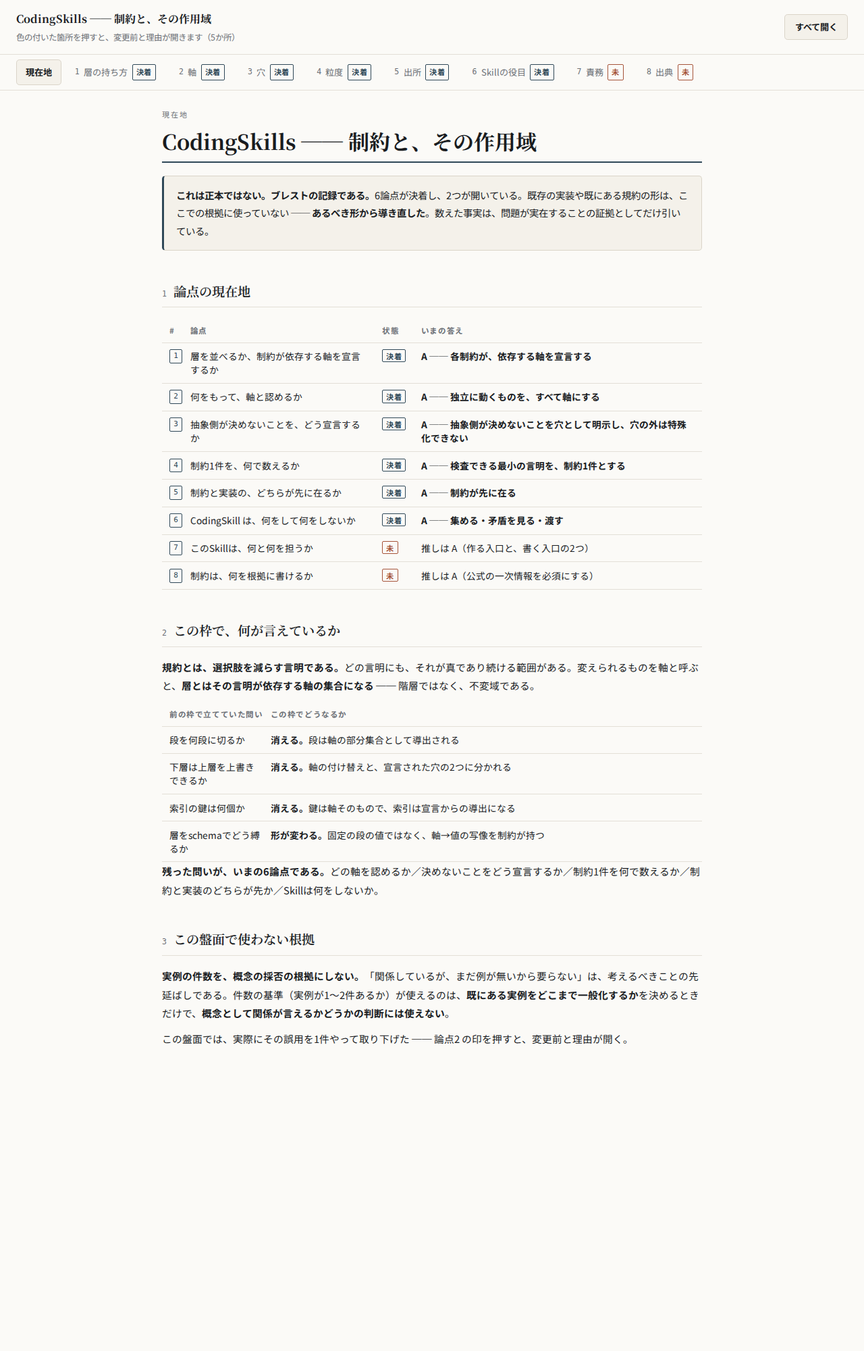
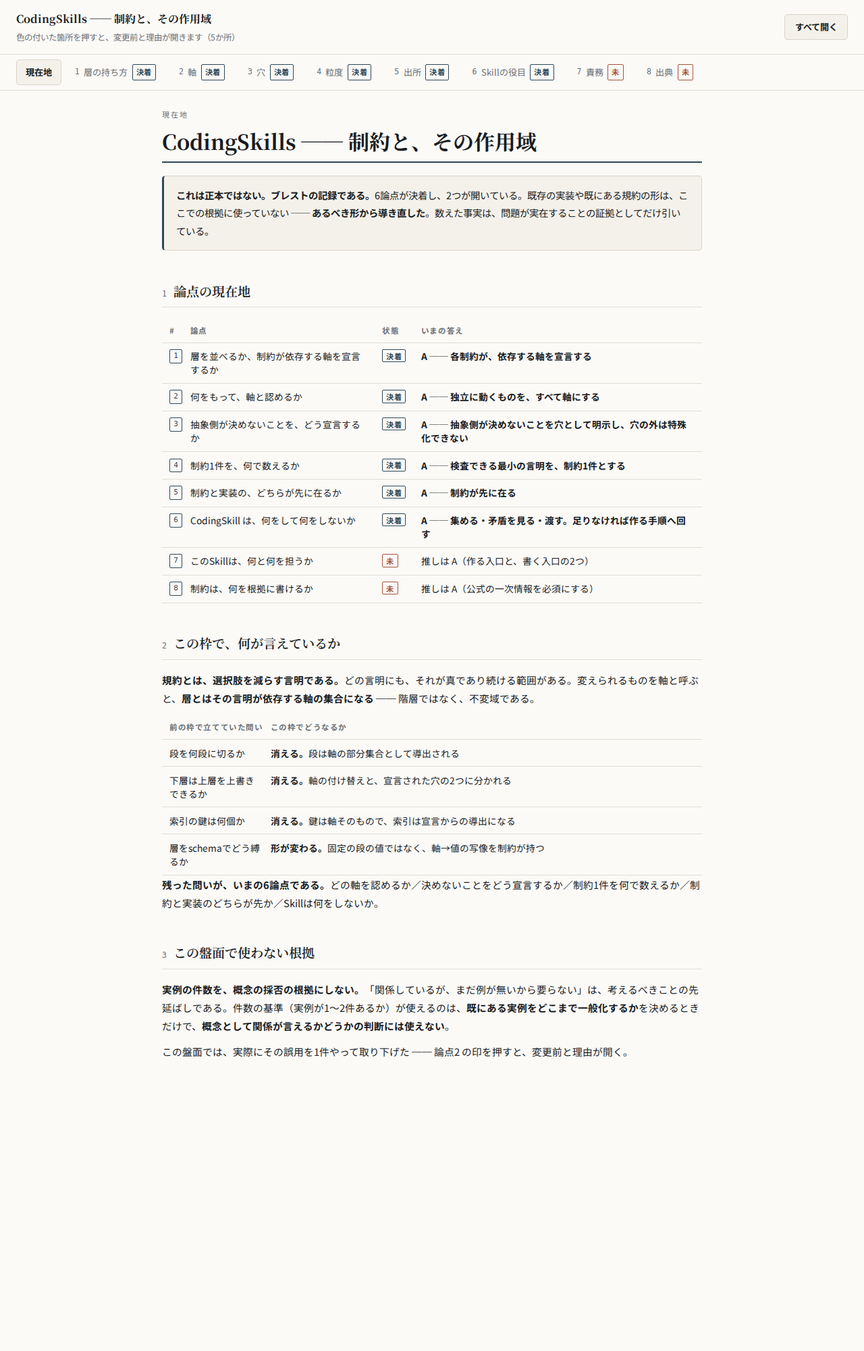
足りないと分かった時点で、規約を作る手順へ回す
書く手順が止まって終わる形をやめ、制約が足りないと分かったら作る手順へ回し、
承認を経てから集め直す形にした。図に2本の矢印を足している ── 集める段から
原典を落とす段へ回す矢印と、正本から集める段へ戻る矢印。

変えていないのは承認である。その場で勝手に作らず、正本に入るのは人の承認を
経た制約だけという点は、そのまま残る。

Why: 足りないことを言って止まるだけでは、次に同じ場面が来ても足りないまま
である。回した結果が正本に残れば、次は集める段で足りる。

Claude-Session: https://claude.ai/code/session_01VoPqHBXHr7Npdh9tNXyFNU

Changed region(s): [[0.1875, 0.372, 0.8125, 0.806], [0.7188, 0.465, 0.8125, 0.527]]

diff --git a/docs/adr/brainstorm-coding-skills.html b/docs/adr/brainstorm-coding-skills.html
@@ -122,7 +122,7 @@ mark.chg.del b{text-decoration:line-through}
 .st.done{color:var(--key);border-color:var(--key)}
 .st.open{color:var(--add);border-color:var(--add)}
 section[role="tabpanel"][hidden]{display:none}
-</style><div class="hd"><div class="t">CodingSkills ── 制約と、その作用域<small>色の付いた箇所を押すと、変更前と理由が開きます（<span id="n">0</span>か所）</small></div><button id="all" type="button">すべて開く</button></div><div class="tabs" role="tablist"><button role="tab" aria-selected="true" data-t="p0">現在地</button><button role="tab" aria-selected="false" data-t="p1"><span class="tn">1</span>層の持ち方<span class="st done">決着</span></button><button role="tab" aria-selected="false" data-t="p2"><span class="tn">2</span>軸<span class="st done">決着</span></button><button role="tab" aria-selected="false" data-t="p3"><span class="tn">3</span>穴<span class="st done">決着</span></button><button role="tab" aria-selected="false" data-t="p4"><span class="tn">4</span>粒度<span class="st done">決着</span></button><button role="tab" aria-selected="false" data-t="p5"><span class="tn">5</span>出所<span class="st done">決着</span></button><button role="tab" aria-selected="false" data-t="p6"><span class="tn">6</span>Skillの役目<span class="st done">決着</span></button><button role="tab" aria-selected="false" data-t="p7"><span class="tn">7</span>責務<span class="st open">未</span></button><button role="tab" aria-selected="false" data-t="p8"><span class="tn">8</span>出典<span class="st open">未</span></button></div><main><section id="p0" role="tabpanel"><p class="eyebrow">現在地</p><h1>CodingSkills ── 制約と、その作用域</h1><div class="note"><b>これは正本ではない。ブレストの記録である。</b>6論点が決着し、2つが開いている。既存の実装や既にある規約の形は、ここでの根拠に使っていない ── <b>あるべき形から導き直した</b>。数えた事実は、問題が実在することの証拠としてだけ引いている。</div><h2><span class="sn">1</span>論点の現在地</h2><div class="scroll"><table class=""><tr><th>#</th><th>論点</th><th>状態</th><th>いまの答え</th></tr><tr><td><span class="n">1</span></td><td>層を並べるか、制約が依存する軸を宣言するか</td><td><span class="st done">決着</span></td><td><b>A ── 各制約が、依存する軸を宣言する</b></td></tr><tr><td><span class="n">2</span></td><td>何をもって、軸と認めるか</td><td><span class="st done">決着</span></td><td><b>A ── 独立に動くものを、すべて軸にする</b></td></tr><tr><td><span class="n">3</span></td><td>抽象側が決めないことを、どう宣言するか</td><td><span class="st done">決着</span></td><td><b>A ── 抽象側が決めないことを穴として明示し、穴の外は特殊化できない</b></td></tr><tr><td><span class="n">4</span></td><td>制約1件を、何で数えるか</td><td><span class="st done">決着</span></td><td><b>A ── 検査できる最小の言明を、制約1件とする</b></td></tr><tr><td><span class="n">5</span></td><td>制約と実装の、どちらが先に在るか</td><td><span class="st done">決着</span></td><td><b>A ── 制約が先に在る</b></td></tr><tr><td><span class="n">6</span></td><td>CodingSkill は、何をして何をしないか</td><td><span class="st done">決着</span></td><td><b>A ── 集める・矛盾を見る・渡す</b></td></tr><tr><td><span class="n">7</span></td><td>このSkillは、何と何を担うか</td><td><span class="st open">未</span></td><td>推しは A（作る入口と、書く入口の2つ）</td></tr><tr><td><span class="n">8</span></td><td>制約は、何を根拠に書けるか</td><td><span class="st open">未</span></td><td>推しは A（公式の一次情報を必須にする）</td></tr></table></div><h2><span class="sn">2</span>この枠で、何が言えているか</h2><p class='lead'><b>規約とは、選択肢を減らす言明である。</b>どの言明にも、それが真であり続ける範囲がある。変えられるものを軸と呼ぶと、<b>層とはその言明が依存する軸の集合になる</b> ── 階層ではなく、不変域である。</p><div class="scroll"><table class=""><tr><th>前の枠で立てていた問い</th><th>この枠でどうなるか</th></tr><tr><td>段を何段に切るか</td><td><b>消える。</b>段は軸の部分集合として導出される</td></tr><tr><td>下層は上層を上書きできるか</td><td><b>消える。</b>軸の付け替えと、宣言された穴の2つに分かれる</td></tr><tr><td>索引の鍵は何個か</td><td><b>消える。</b>鍵は軸そのもので、索引は宣言からの導出になる</td></tr><tr><td>層をschemaでどう縛るか</td><td><b>形が変わる。</b>固定の段の値ではなく、軸→値の写像を制約が持つ</td></tr></table></div><p class='lead'><b>残った問いが、いまの6論点である。</b>どの軸を認めるか／決めないことをどう宣言するか／制約1件を何で数えるか／制約と実装のどちらが先か／Skillは何をしないか。</p><h2><span class="sn">3</span>この盤面で使わない根拠</h2><p class='lead'><b>実例の件数を、概念の採否の根拠にしない。</b>「関係しているが、まだ例が無いから要らない」は、考えるべきことの先延ばしである。件数の基準（実例が1〜2件あるか）が使えるのは、<b>既にある実例をどこまで一般化するか</b>を決めるときだけで、<b>概念として関係が言えるかどうかの判断には使えない</b>。</p><p class='lead'>この盤面では、実際にその誤用を1件やって取り下げた ── 論点2 の印を押すと、変更前と理由が開く。</p></section><section id="p1" role="tabpanel" hidden><p class="eyebrow">論点 1</p><h1>層を並べるか、制約が依存する軸を宣言するか</h1><div class="note"><b>制約とは、選択肢を減らす言明である。そしてどの制約にも、それが真であり続ける範囲がある。</b>変えられるものを軸と呼ぶと、<b>層とは、その制約が依存する軸の集合になる</b>。</div><h2><span class="sn">1</span>反証を通過した案</h2><div class="scroll"><table class="opts"><tr><th></th><th>案</th><th>中身</th><th>代償</th></tr><tr><td><span class="n ">A</span></td><td><b>各制約が、依存する軸を宣言する</b></td><td>層は宣言から導出される。フォルダは、その導出をどう並べて見せるかにすぎない</td><td><span class="cost">制約1件ごとに宣言を書く手間が増える。<b>層が一覧として見えないので、見せ方を別に作る</b></span></td></tr><tr><td><span class="n ">B</span></td><td><b>層をあらかじめ並べ、制約をそこへ置く</b></td><td>言語／アーキ／束ね／目的の段を先に決め、規約をその段へ配る</td><td><span class="cost"><b>軸が増えたとき、段の切り直しになる</b>。実行環境や規模を軸に足したくなった時点で、全部を並べ替える</span></td></tr><tr><td><span class="n ">C</span></td><td><b>層を持たず、場面ごとに規約一式を作る</b></td><td>目的と言語の組ごとに、必要な制約を全部書く</td><td><span class="cost">同じ言明が組の数だけ写る。<b>直す場所が1か所に決まらない</b></span></td></tr></table></div><h2><span class="sn">2</span>反証で分かったこと</h2><ul class='found'><li><b>「4段」は、軸を2本に絞ったときの部分集合にすぎなかった。</b>段数は決めるものではなく、軸から導出される</li><li><b>フォルダ構成は、この論点の答えではない。</b>導出をどう見せるかであって、何が真かとは別のこと</li></ul><h2><span class="sn">3</span>私の推し</h2><div class="concl"><span class="n big">A</span><div><p>各制約が、依存する軸を宣言する。層はそこから導出する</p></div></div><h3>なぜそう言えるか</h3><div class="scroll"><table class="why"><tr><th>結論のどこを支えるか</th><th>もとにしたこと</th><th>その出どころ</th></tr><tr><td><span class="part">層を導出にすること</span></td><td>層とは、制約が依存する軸の集合である</td><td><span class="kind k-given">前提</span><small>この盤面の出発点（規約＝制約の宣言、作用域＝依存する軸）</small></td></tr><tr><td><span class="part">並べないこと</span></td><td>層を先に並べると、宣言の誤りが「どの段に置くか」の悩みとして出る</td><td><span class="kind k-rule">決まり</span><small>前の枠で実際に4段を並べ、段の切り方が論点になった</small></td></tr><tr><td><span class="part">フォルダを答えにしないこと</span></td><td>同じ制約が2か所に現れるのは、軸の宣言が足りないとき</td><td><span class="kind k-given">前提</span><small>既存の規約13本で、同じ言明が対象ごとに写っている（`.waffle/documents/coding`）</small></td></tr></table></div><h3>図で見る</h3><figure><svg viewBox="0 0 780 320" role="img" aria-label="各制約が依存する軸を宣言すると、層はその宣言から導出される">
+</style><div class="hd"><div class="t">CodingSkills ── 制約と、その作用域<small>色の付いた箇所を押すと、変更前と理由が開きます（<span id="n">0</span>か所）</small></div><button id="all" type="button">すべて開く</button></div><div class="tabs" role="tablist"><button role="tab" aria-selected="true" data-t="p0">現在地</button><button role="tab" aria-selected="false" data-t="p1"><span class="tn">1</span>層の持ち方<span class="st done">決着</span></button><button role="tab" aria-selected="false" data-t="p2"><span class="tn">2</span>軸<span class="st done">決着</span></button><button role="tab" aria-selected="false" data-t="p3"><span class="tn">3</span>穴<span class="st done">決着</span></button><button role="tab" aria-selected="false" data-t="p4"><span class="tn">4</span>粒度<span class="st done">決着</span></button><button role="tab" aria-selected="false" data-t="p5"><span class="tn">5</span>出所<span class="st done">決着</span></button><button role="tab" aria-selected="false" data-t="p6"><span class="tn">6</span>Skillの役目<span class="st done">決着</span></button><button role="tab" aria-selected="false" data-t="p7"><span class="tn">7</span>責務<span class="st open">未</span></button><button role="tab" aria-selected="false" data-t="p8"><span class="tn">8</span>出典<span class="st open">未</span></button></div><main><section id="p0" role="tabpanel"><p class="eyebrow">現在地</p><h1>CodingSkills ── 制約と、その作用域</h1><div class="note"><b>これは正本ではない。ブレストの記録である。</b>6論点が決着し、2つが開いている。既存の実装や既にある規約の形は、ここでの根拠に使っていない ── <b>あるべき形から導き直した</b>。数えた事実は、問題が実在することの証拠としてだけ引いている。</div><h2><span class="sn">1</span>論点の現在地</h2><div class="scroll"><table class=""><tr><th>#</th><th>論点</th><th>状態</th><th>いまの答え</th></tr><tr><td><span class="n">1</span></td><td>層を並べるか、制約が依存する軸を宣言するか</td><td><span class="st done">決着</span></td><td><b>A ── 各制約が、依存する軸を宣言する</b></td></tr><tr><td><span class="n">2</span></td><td>何をもって、軸と認めるか</td><td><span class="st done">決着</span></td><td><b>A ── 独立に動くものを、すべて軸にする</b></td></tr><tr><td><span class="n">3</span></td><td>抽象側が決めないことを、どう宣言するか</td><td><span class="st done">決着</span></td><td><b>A ── 抽象側が決めないことを穴として明示し、穴の外は特殊化できない</b></td></tr><tr><td><span class="n">4</span></td><td>制約1件を、何で数えるか</td><td><span class="st done">決着</span></td><td><b>A ── 検査できる最小の言明を、制約1件とする</b></td></tr><tr><td><span class="n">5</span></td><td>制約と実装の、どちらが先に在るか</td><td><span class="st done">決着</span></td><td><b>A ── 制約が先に在る</b></td></tr><tr><td><span class="n">6</span></td><td>CodingSkill は、何をして何をしないか</td><td><span class="st done">決着</span></td><td><b>A ── 集める・矛盾を見る・渡す。足りなければ作る手順へ回す</b></td></tr><tr><td><span class="n">7</span></td><td>このSkillは、何と何を担うか</td><td><span class="st open">未</span></td><td>推しは A（作る入口と、書く入口の2つ）</td></tr><tr><td><span class="n">8</span></td><td>制約は、何を根拠に書けるか</td><td><span class="st open">未</span></td><td>推しは A（公式の一次情報を必須にする）</td></tr></table></div><h2><span class="sn">2</span>この枠で、何が言えているか</h2><p class='lead'><b>規約とは、選択肢を減らす言明である。</b>どの言明にも、それが真であり続ける範囲がある。変えられるものを軸と呼ぶと、<b>層とはその言明が依存する軸の集合になる</b> ── 階層ではなく、不変域である。</p><div class="scroll"><table class=""><tr><th>前の枠で立てていた問い</th><th>この枠でどうなるか</th></tr><tr><td>段を何段に切るか</td><td><b>消える。</b>段は軸の部分集合として導出される</td></tr><tr><td>下層は上層を上書きできるか</td><td><b>消える。</b>軸の付け替えと、宣言された穴の2つに分かれる</td></tr><tr><td>索引の鍵は何個か</td><td><b>消える。</b>鍵は軸そのもので、索引は宣言からの導出になる</td></tr><tr><td>層をschemaでどう縛るか</td><td><b>形が変わる。</b>固定の段の値ではなく、軸→値の写像を制約が持つ</td></tr></table></div><p class='lead'><b>残った問いが、いまの6論点である。</b>どの軸を認めるか／決めないことをどう宣言するか／制約1件を何で数えるか／制約と実装のどちらが先か／Skillは何をしないか。</p><h2><span class="sn">3</span>この盤面で使わない根拠</h2><p class='lead'><b>実例の件数を、概念の採否の根拠にしない。</b>「関係しているが、まだ例が無いから要らない」は、考えるべきことの先延ばしである。件数の基準（実例が1〜2件あるか）が使えるのは、<b>既にある実例をどこまで一般化するか</b>を決めるときだけで、<b>概念として関係が言えるかどうかの判断には使えない</b>。</p><p class='lead'>この盤面では、実際にその誤用を1件やって取り下げた ── 論点2 の印を押すと、変更前と理由が開く。</p></section><section id="p1" role="tabpanel" hidden><p class="eyebrow">論点 1</p><h1>層を並べるか、制約が依存する軸を宣言するか</h1><div class="note"><b>制約とは、選択肢を減らす言明である。そしてどの制約にも、それが真であり続ける範囲がある。</b>変えられるものを軸と呼ぶと、<b>層とは、その制約が依存する軸の集合になる</b>。</div><h2><span class="sn">1</span>反証を通過した案</h2><div class="scroll"><table class="opts"><tr><th></th><th>案</th><th>中身</th><th>代償</th></tr><tr><td><span class="n ">A</span></td><td><b>各制約が、依存する軸を宣言する</b></td><td>層は宣言から導出される。フォルダは、その導出をどう並べて見せるかにすぎない</td><td><span class="cost">制約1件ごとに宣言を書く手間が増える。<b>層が一覧として見えないので、見せ方を別に作る</b></span></td></tr><tr><td><span class="n ">B</span></td><td><b>層をあらかじめ並べ、制約をそこへ置く</b></td><td>言語／アーキ／束ね／目的の段を先に決め、規約をその段へ配る</td><td><span class="cost"><b>軸が増えたとき、段の切り直しになる</b>。実行環境や規模を軸に足したくなった時点で、全部を並べ替える</span></td></tr><tr><td><span class="n ">C</span></td><td><b>層を持たず、場面ごとに規約一式を作る</b></td><td>目的と言語の組ごとに、必要な制約を全部書く</td><td><span class="cost">同じ言明が組の数だけ写る。<b>直す場所が1か所に決まらない</b></span></td></tr></table></div><h2><span class="sn">2</span>反証で分かったこと</h2><ul class='found'><li><b>「4段」は、軸を2本に絞ったときの部分集合にすぎなかった。</b>段数は決めるものではなく、軸から導出される</li><li><b>フォルダ構成は、この論点の答えではない。</b>導出をどう見せるかであって、何が真かとは別のこと</li></ul><h2><span class="sn">3</span>私の推し</h2><div class="concl"><span class="n big">A</span><div><p>各制約が、依存する軸を宣言する。層はそこから導出する</p></div></div><h3>なぜそう言えるか</h3><div class="scroll"><table class="why"><tr><th>結論のどこを支えるか</th><th>もとにしたこと</th><th>その出どころ</th></tr><tr><td><span class="part">層を導出にすること</span></td><td>層とは、制約が依存する軸の集合である</td><td><span class="kind k-given">前提</span><small>この盤面の出発点（規約＝制約の宣言、作用域＝依存する軸）</small></td></tr><tr><td><span class="part">並べないこと</span></td><td>層を先に並べると、宣言の誤りが「どの段に置くか」の悩みとして出る</td><td><span class="kind k-rule">決まり</span><small>前の枠で実際に4段を並べ、段の切り方が論点になった</small></td></tr><tr><td><span class="part">フォルダを答えにしないこと</span></td><td>同じ制約が2か所に現れるのは、軸の宣言が足りないとき</td><td><span class="kind k-given">前提</span><small>既存の規約13本で、同じ言明が対象ごとに写っている（`.waffle/documents/coding`）</small></td></tr></table></div><h3>図で見る</h3><figure><svg viewBox="0 0 780 320" role="img" aria-label="各制約が依存する軸を宣言すると、層はその宣言から導出される">
 <text x="8" y="18" font-size="11.5" font-weight="700" fill="var(--muted)">制約</text>
 <text x="330" y="18" font-size="11.5" font-weight="700" fill="var(--muted)">依存する軸</text>
 <text x="600" y="18" font-size="11.5" font-weight="700" fill="var(--key)">導出される層</text>
@@ -278,37 +278,36 @@ section[role="tabpanel"][hidden]{display:none}
 <text x="492" y="200" font-size="11.5" fill="var(--add)">実装の誤りが、そのまま制約になる。</text>
 <text x="492" y="220" font-size="11.5" font-weight="700" fill="var(--add)">誤りを指す先が、どこにも無くなる</text>
 <text x="492" y="176" font-size="11" fill="var(--muted)">これは手順の違いではなく、出所の向きの違いである</text>
-</svg><figcaption>上が制約から始めた場合、下が実装から始めた場合である。</figcaption></figure><h3>引き受けること</h3><ul class="found"><li>手を入れるまでの距離が長くなる。既存コードでは、制約を書き起こす作業が先に立つ</li></ul><h3>まだ崩れうるところ</h3><ul class="found"><li>書き起こした制約が、実際には実装を読んで作られていることは、外からは見分けにくい</li></ul><h2><span class="sn">5</span>決まり</h2><div class="scroll"><table class="chain"><tr><th></th><th></th></tr><tr><td><span class="st done">決定</span></td><td><b>制約が先に在る。既存コードへ手を入れるときも、まず制約を書き起こす</b></td></tr><tr><td><span class="st done">理由</span></td><td>実装から起こすと、実装の誤りがそのまま制約になる</td></tr><tr><td><span class="st done">引き受ける</span></td><td>手を入れるまでの距離が長くなる</td></tr></table></div></section><section id="p6" role="tabpanel" hidden><p class="eyebrow">論点 6</p><h1>CodingSkill は、何をして何をしないか</h1><div class="note">制約を作る手順と、制約に従って書く手順は、<b>読む順が逆である</b> ── 作る側は軸から降り、使う側は入力から集める。</div><h2><span class="sn">1</span>反証を通過した案</h2><div class="scroll"><table class="opts"><tr><th></th><th>案</th><th>中身</th><th>代償</th></tr><tr><td><span class="n ">A</span></td><td><b>集める・矛盾を見る・渡す。制約は作らない</b></td><td>軸の値から制約を集め、同じ対象に矛盾が無いか見て、実行できるものはテストへ、それ以外は書き方の拘束へ渡す</td><td><span class="cost">制約が足りない場面で、Skill は止まる。<b>足りないことは言えるが、埋められない</b></span></td></tr><tr><td><span class="n ">B</span></td><td><b>足りなければ、その場で制約を起こす</b></td><td>集めた制約に穴があれば、Skill が新しい制約を宣言してから書く</td><td><span class="cost"><b>その場で起こした制約は、誰の承認も経ていない</b>。書くたびに規約が増え、正本が育たない</span></td></tr></table></div><h2><span class="sn">2</span>反証で分かったこと</h2><ul class='found'><li><b>「足りない」と言えること自体が、構造化の利得である</b> ── 不在が観測できる（論点2 の決着）</li><li>制約を起こす手順は、このSkillの中に置くが、<b>使う手順とは別の入口にする</b></li></ul><h2><span class="sn">3</span>私の推し</h2><div class="concl"><span class="n big">A</span><div><p>集める・矛盾を見る・渡す。書く入口では制約を作らない</p></div></div><h3>なぜそう言えるか</h3><div class="scroll"><table class="why"><tr><th>結論のどこを支えるか</th><th>もとにしたこと</th><th>その出どころ</th></tr><tr><td><span class="part">作らないこと</span></td><td>正本に入るのは、人の承認を経た制約だけである</td><td><span class="kind k-rule">決まり</span><small>論点7 の決まり（入口を分ける）</small></td></tr><tr><td><span class="part">止まること</span></td><td>その場で起こした制約は、次に同じ場面が来ても再現しない</td><td><span class="kind k-rule">決まり</span><small>承認を経ない制約は正本に無い、という論点7 の決まりからの帰結</small></td></tr><tr><td><span class="part">足りないと言えること</span></td><td>構造で引けば「その欄が空である」と言い切れる</td><td><span class="kind k-rule">決まり</span><small>schema 観の三層の論点2（構造化の利得は、無いことが分かること）</small></td></tr></table></div><h3>引き受けること</h3><ul class="found"><li>制約が足りない場面では止まる。足りないことは言えるが、埋められない</li></ul><h2><span class="sn">4</span>決まり</h2><div class="scroll"><table class="chain"><tr><th></th><th></th></tr><tr><td><span class="st done">決定</span></td><td><b>集める・矛盾を見る・渡す。書く入口では制約を作らない</b></td></tr><tr><td><span class="st done">理由</span></td><td>その場で起こした制約は承認を経ておらず、次に同じ場面が来たときに再現しない</td></tr><tr><td><span class="st done">引き受ける</span></td><td>制約が足りない場面では止まる。足りないことは言えるが、埋められない</td></tr></table></div></section><section id="p7" role="tabpanel" hidden><p class="eyebrow">論点 7</p><h1>このSkillは、何と何を担うか</h1><div class="note">論点6 で「書く入口では制約を作らない」と決めた。<b>では、制約は誰がいつ作るのか</b>という問いが残っている。</div><h2><span class="sn">1</span>反証を通過した案</h2><div class="scroll"><table class="opts"><tr><th></th><th>案</th><th>中身</th><th>代償</th></tr><tr><td><span class="n ">A</span></td><td><b>入口を2つ持つ（作る／書く）</b></td><td>同じSkillが、制約を起こす手順と、制約に従って書く手順を、別の入口として持つ</td><td><span class="cost">1つのSkillが2つの責務を持つ。<b>どちらの入口に居るかを、読み手が取り違えうる</b></span></td></tr><tr><td><span class="n ">B</span></td><td><b>書く責務だけを持ち、制約は外で作る</b></td><td>制約を起こすのは別のSkillか人の作業とし、このSkillは集めて従うだけにする</td><td><span class="cost"><b>制約の形（軸・穴・出典）を定めている場所と、それを使う場所が離れる</b>。形を変えたとき、2か所を同時に直す</span></td></tr></table></div><h2><span class="sn">2</span>反証で分かったこと</h2><ul class='found'><li><b>2つの責務は、読む順が逆である。</b>作る側は軸から降り、書く側は入力から集める</li><li><b>踏む頻度が2桁違う。</b>書く手順は毎回踏まれ、作る手順は制約を増やすときだけ踏まれる</li></ul><h2><span class="sn">3</span>私の推し</h2><div class="concl"><span class="n big">A</span><div><p>入口を2つ持つ。SKILL.md 本体は書く入口に絞り、作る入口は references に置く</p></div></div><h3>なぜそう言えるか</h3><div class="scroll"><table class="why"><tr><th>結論のどこを支えるか</th><th>もとにしたこと</th><th>その出どころ</th></tr><tr><td><span class="part">入口を分けること</span></td><td>起こす手順は制約を増やすときだけ、集める手順は書くたびに踏む</td><td><span class="kind k-fact">実測</span><small>このSkillが持つ2つの手順（作る／使う）を数えた</small></td></tr><tr><td><span class="part">1つのSkillに置くこと</span></td><td>どちらも、同じ「制約」への操作である</td><td><span class="kind k-given">前提</span><small>この盤面の出発点（制約が中心の概念）</small></td></tr><tr><td><span class="part">離さないこと</span></td><td>別のSkillへ離すと、形（軸・穴・出典）の正本が2か所になる</td><td><span class="kind k-rule">決まり</span><small>前の枠の論点5 で、同じ理由から別Skill案を落とした</small></td></tr></table></div><h3>図で見る</h3><figure><svg viewBox="0 0 780 260" role="img" aria-label="規約を作る入口と、規約に従って書く入口は別で、書く入口では制約を作らない">
+</svg><figcaption>上が制約から始めた場合、下が実装から始めた場合である。</figcaption></figure><h3>引き受けること</h3><ul class="found"><li>手を入れるまでの距離が長くなる。既存コードでは、制約を書き起こす作業が先に立つ</li></ul><h3>まだ崩れうるところ</h3><ul class="found"><li>書き起こした制約が、実際には実装を読んで作られていることは、外からは見分けにくい</li></ul><h2><span class="sn">5</span>決まり</h2><div class="scroll"><table class="chain"><tr><th></th><th></th></tr><tr><td><span class="st done">決定</span></td><td><b>制約が先に在る。既存コードへ手を入れるときも、まず制約を書き起こす</b></td></tr><tr><td><span class="st done">理由</span></td><td>実装から起こすと、実装の誤りがそのまま制約になる</td></tr><tr><td><span class="st done">引き受ける</span></td><td>手を入れるまでの距離が長くなる</td></tr></table></div></section><section id="p6" role="tabpanel" hidden><p class="eyebrow">論点 6</p><h1>CodingSkill は、何をして何をしないか</h1><div class="note">制約を作る手順と、制約に従って書く手順は、<b>読む順が逆である</b> ── 作る側は軸から降り、使う側は入力から集める。</div><h2><span class="sn">1</span>反証を通過した案</h2><div class="scroll"><table class="opts"><tr><th></th><th>案</th><th>中身</th><th>代償</th></tr><tr><td><span class="n ">A</span></td><td><b>集める・矛盾を見る・渡す。足りなければ作る手順へ回す</b></td><td>軸の値から制約を集め、矛盾が無いか見て渡す。足りなければ作る手順へ回し、承認を経て戻る</td><td><span class="cost">書く流れが、承認を待つあいだ止まる。<b>その場で埋めることはできない</b></span></td></tr><tr><td><span class="n ">B</span></td><td><b>足りなければ、その場で制約を起こす</b></td><td>集めた制約に穴があれば、Skill が新しい制約を宣言してから書く</td><td><span class="cost"><b>その場で起こした制約は、誰の承認も経ていない</b>。書くたびに規約が増え、正本が育たない</span></td></tr></table></div><h2><span class="sn">2</span>反証で分かったこと</h2><ul class='found'><li><b>「足りない」と言えること自体が、構造化の利得である</b> ── 不在が観測できる（論点2 の決着）</li><li>制約を起こす手順は、このSkillの中に置くが、<b>使う手順とは別の入口にする</b></li></ul><h2><span class="sn">3</span>私の推し</h2><div class="concl"><span class="n big">A</span><div><p>集める・矛盾を見る・渡す。足りないと分かったら作る手順へ回し、承認を経てから戻る</p></div></div><h3>なぜそう言えるか</h3><div class="scroll"><table class="why"><tr><th>結論のどこを支えるか</th><th>もとにしたこと</th><th>その出どころ</th></tr><tr><td><span class="part">その場で作らないこと</span></td><td>正本に入るのは、人の承認を経た制約だけである</td><td><span class="kind k-rule">決まり</span><small>論点7 の決まり（入口を分ける）</small></td></tr><tr><td><span class="part">作る手順へ回すこと</span></td><td>回した結果は正本に残り、次に同じ場面が来たときは集める段で足りる</td><td><span class="kind k-rule">決まり</span><small>論点7 の決まり（作る手順は原典→承認→正本）</small></td></tr><tr><td><span class="part">足りないと言えること</span></td><td>構造で引けば「その欄が空である」と言い切れる</td><td><span class="kind k-rule">決まり</span><small>schema 観の三層の論点2（構造化の利得は、無いことが分かること）</small></td></tr></table></div><h3>引き受けること</h3><ul class="found"><li>足りない場面では、書く手前で作る手順へ回る ── 承認を待つぶん、その場では進まない</li></ul><h2><span class="sn">4</span>決まり</h2><div class="scroll"><table class="chain"><tr><th></th><th></th></tr><tr><td><span class="st done">決定</span></td><td><b>集める・矛盾を見る・渡す。足りないと分かったら作る手順へ回し、承認を経てから戻る</b></td></tr><tr><td><span class="st done">理由</span></td><td>その場で起こした制約は承認を経ておらず、次に同じ場面が来たときに再現しない</td></tr><tr><td><span class="st done">引き受ける</span></td><td>足りない場面では、書く手前で作る手順へ回る ── 承認を待つぶん、その場では進まない</td></tr></table></div></section><section id="p7" role="tabpanel" hidden><p class="eyebrow">論点 7</p><h1>このSkillは、何と何を担うか</h1><div class="note">論点6 で「書く入口では制約を作らない」と決めた。<b>では、制約は誰がいつ作るのか</b>という問いが残っている。</div><h2><span class="sn">1</span>反証を通過した案</h2><div class="scroll"><table class="opts"><tr><th></th><th>案</th><th>中身</th><th>代償</th></tr><tr><td><span class="n ">A</span></td><td><b>入口を2つ持つ（作る／書く）</b></td><td>同じSkillが、制約を起こす手順と、制約に従って書く手順を、別の入口として持つ</td><td><span class="cost">1つのSkillが2つの責務を持つ。<b>どちらの入口に居るかを、読み手が取り違えうる</b></span></td></tr><tr><td><span class="n ">B</span></td><td><b>書く責務だけを持ち、制約は外で作る</b></td><td>制約を起こすのは別のSkillか人の作業とし、このSkillは集めて従うだけにする</td><td><span class="cost"><b>制約の形（軸・穴・出典）を定めている場所と、それを使う場所が離れる</b>。形を変えたとき、2か所を同時に直す</span></td></tr></table></div><h2><span class="sn">2</span>反証で分かったこと</h2><ul class='found'><li><b>2つの責務は、読む順が逆である。</b>作る側は軸から降り、書く側は入力から集める</li><li><b>踏む頻度が2桁違う。</b>書く手順は毎回踏まれ、作る手順は制約を増やすときだけ踏まれる</li></ul><h2><span class="sn">3</span>私の推し</h2><div class="concl"><span class="n big">A</span><div><p>入口を2つ持つ。SKILL.md 本体は書く入口に絞り、作る入口は references に置く</p></div></div><h3>なぜそう言えるか</h3><div class="scroll"><table class="why"><tr><th>結論のどこを支えるか</th><th>もとにしたこと</th><th>その出どころ</th></tr><tr><td><span class="part">入口を分けること</span></td><td>起こす手順は制約を増やすときだけ、集める手順は書くたびに踏む</td><td><span class="kind k-fact">実測</span><small>このSkillが持つ2つの手順（作る／使う）を数えた</small></td></tr><tr><td><span class="part">1つのSkillに置くこと</span></td><td>どちらも、同じ「制約」への操作である</td><td><span class="kind k-given">前提</span><small>この盤面の出発点（制約が中心の概念）</small></td></tr><tr><td><span class="part">離さないこと</span></td><td>別のSkillへ離すと、形（軸・穴・出典）の正本が2か所になる</td><td><span class="kind k-rule">決まり</span><small>前の枠の論点5 で、同じ理由から別Skill案を落とした</small></td></tr></table></div><h3>図で見る</h3><figure><svg viewBox="0 0 780 300" role="img" aria-label="書く手順で制約が足りないと分かったら、作る手順へ回して承認を経てから戻る">
 <defs><marker id="e1" viewBox="0 0 10 10" refX="9" refY="5" markerWidth="7" markerHeight="7" orient="auto-start-reverse"><path d="M0 0 L10 5 L0 10 z" fill="var(--key)"/></marker>
 <marker id="e2" viewBox="0 0 10 10" refX="9" refY="5" markerWidth="7" markerHeight="7" orient="auto-start-reverse"><path d="M0 0 L10 5 L0 10 z" fill="var(--add)"/></marker></defs>
-<text x="8" y="18" font-size="11.5" font-weight="700" fill="var(--key)">入口1　規約を作る</text>
-<rect x="8" y="32" width="150" height="34" fill="none" stroke="var(--key)" stroke-width="1.5"/><text x="83" y="54" text-anchor="middle" font-size="11" fill="var(--key)">原典を落とす</text>
-<line x1="158" y1="49" x2="188" y2="49" stroke="var(--key)" stroke-width="1.5" marker-end="url(#e1)"/>
-<rect x="194" y="32" width="150" height="34" fill="none" stroke="var(--key)" stroke-width="1.5"/><text x="269" y="54" text-anchor="middle" font-size="11" fill="var(--key)">制約と軸を書く</text>
-<line x1="344" y1="49" x2="374" y2="49" stroke="var(--key)" stroke-width="1.5" marker-end="url(#e1)"/>
-<rect x="380" y="32" width="150" height="34" fill="none" stroke="var(--key)" stroke-width="1.5"/><text x="455" y="54" text-anchor="middle" font-size="11" fill="var(--key)">人が承認する</text>
-<line x1="530" y1="49" x2="560" y2="49" stroke="var(--key)" stroke-width="1.5" marker-end="url(#e1)"/>
-<rect x="566" y="26" width="150" height="46" fill="none" stroke="var(--key)" stroke-width="1.9"/><text x="641" y="45" text-anchor="middle" font-size="11" font-weight="700" fill="var(--key)">規約の正本</text>
-<text x="641" y="62" text-anchor="middle" font-size="10" fill="var(--muted)">references／制約の集まり</text>
+<text x="8" y="18" font-size="11.5" font-weight="700" fill="var(--key)">規約を作る手順</text>
+<rect x="8" y="30" width="140" height="34" fill="none" stroke="var(--key)" stroke-width="1.5"/><text x="78" y="52" text-anchor="middle" font-size="11" fill="var(--key)">原典を落とす</text>
+<line x1="148" y1="47" x2="176" y2="47" stroke="var(--key)" stroke-width="1.5" marker-end="url(#e1)"/>
+<rect x="182" y="30" width="140" height="34" fill="none" stroke="var(--key)" stroke-width="1.5"/><text x="252" y="52" text-anchor="middle" font-size="11" fill="var(--key)">制約と軸を書く</text>
+<line x1="322" y1="47" x2="350" y2="47" stroke="var(--key)" stroke-width="1.5" marker-end="url(#e1)"/>
+<rect x="356" y="30" width="140" height="34" fill="none" stroke="var(--key)" stroke-width="1.5"/><text x="426" y="52" text-anchor="middle" font-size="11" fill="var(--key)">人が承認する</text>
+<line x1="496" y1="47" x2="524" y2="47" stroke="var(--key)" stroke-width="1.5" marker-end="url(#e1)"/>
+<rect x="530" y="24" width="150" height="46" fill="none" stroke="var(--key)" stroke-width="1.9"/>
+<text x="605" y="43" text-anchor="middle" font-size="11" font-weight="700" fill="var(--key)">規約の正本</text>
+<text x="605" y="60" text-anchor="middle" font-size="10" fill="var(--muted)">references／制約の集まり</text>
 
-<line x1="8" y1="104" x2="772" y2="104" stroke="var(--rule)"/>
+<text x="8" y="196" font-size="11.5" font-weight="700" fill="var(--add)">規約に従って書く手順</text>
+<rect x="8" y="208" width="140" height="34" fill="none" stroke="var(--add)" stroke-width="1.5"/><text x="78" y="230" text-anchor="middle" font-size="11" fill="var(--add)">軸の値を受け取る</text>
+<line x1="148" y1="225" x2="176" y2="225" stroke="var(--add)" stroke-width="1.5" marker-end="url(#e2)"/>
+<rect x="182" y="208" width="140" height="34" fill="none" stroke="var(--add)" stroke-width="1.9"/><text x="252" y="230" text-anchor="middle" font-size="11" fill="var(--add)">制約を集める</text>
+<line x1="322" y1="225" x2="350" y2="225" stroke="var(--add)" stroke-width="1.5" marker-end="url(#e2)"/>
+<rect x="356" y="208" width="140" height="34" fill="none" stroke="var(--add)" stroke-width="1.5"/><text x="426" y="230" text-anchor="middle" font-size="11" fill="var(--add)">テストと実装へ渡す</text>
 
-<text x="8" y="130" font-size="11.5" font-weight="700" fill="var(--add)">入口2　規約に従って書く</text>
-<rect x="8" y="144" width="150" height="34" fill="none" stroke="var(--add)" stroke-width="1.5"/><text x="83" y="166" text-anchor="middle" font-size="11" fill="var(--add)">軸の値を受け取る</text>
-<line x1="158" y1="161" x2="188" y2="161" stroke="var(--add)" stroke-width="1.5" marker-end="url(#e2)"/>
-<rect x="194" y="144" width="150" height="34" fill="none" stroke="var(--add)" stroke-width="1.5"/><text x="269" y="166" text-anchor="middle" font-size="11" fill="var(--add)">制約を集める</text>
-<line x1="344" y1="161" x2="374" y2="161" stroke="var(--add)" stroke-width="1.5" marker-end="url(#e2)"/>
-<rect x="380" y="144" width="150" height="34" fill="none" stroke="var(--add)" stroke-width="1.5"/><text x="455" y="166" text-anchor="middle" font-size="11" fill="var(--add)">テストと実装へ渡す</text>
-<path d="M269 144 L269 78" fill="none" stroke="var(--out)" stroke-width="1.4" stroke-dasharray="5 4"/>
-<text x="255" y="112" text-anchor="middle" font-size="15" font-weight="700" fill="var(--add)">×</text>
-<text x="282" y="116" font-size="10.5" fill="var(--add)">足りなくても、ここでは作らない</text>
-<rect x="566" y="138" width="150" height="46" fill="none" stroke="var(--add)" stroke-width="1.9" stroke-dasharray="5 4"/>
-<text x="641" y="157" text-anchor="middle" font-size="11" font-weight="700" fill="var(--add)">足りないと言って止まる</text>
-<text x="641" y="174" text-anchor="middle" font-size="10" fill="var(--muted)">不在が観測できる</text>
-<line x1="530" y1="161" x2="560" y2="161" stroke="var(--add)" stroke-width="1.5" stroke-dasharray="4 3" marker-end="url(#e2)"/>
-<text x="8" y="214" font-size="11.5" fill="var(--muted)">責務は2つだが、<tspan font-weight="700" fill="var(--key)">手順は交わらない</tspan>。書いている最中に制約を起こすと、</text>
-<text x="8" y="234" font-size="11.5" fill="var(--muted)">その制約は<tspan font-weight="700" fill="var(--add)">誰の承認も経ていない</tspan>まま正本に入り、次に同じ場面が来ても再現しない。</text>
-</svg><figcaption>上が制約を起こす手順、下が制約に従って書く手順である。</figcaption></figure><h3>引き受けること</h3><ul class="found"><li>入口の取り違えを防ぐため、SKILL.md の冒頭でどちらに居るかを先に決めさせる</li></ul><h2><span class="sn">4</span>あなたの見解</h2><div class="you">✏　記号を選ぶ（どれでもなければ、そう言う）</div><h2><span class="sn">5</span>決まり</h2><div class="next">選ばれた案が合意になり、次の論点へ</div></section><section id="p8" role="tabpanel" hidden><p class="eyebrow">論点 8</p><h1>制約は、何を根拠に書けるか</h1><div class="note"><b>プロジェクトの特性を入れた時点で、抽象概念から外れて具体が混ざりはじめる。</b>排除の規則を別に置くのではなく、<b>出典の必須化で自動的に入らない形</b>にできる。</div><h2><span class="sn">1</span>反証を通過した案</h2><div class="scroll"><table class="opts"><tr><th></th><th>案</th><th>中身</th><th>代償</th></tr><tr><td><span class="n ">A</span></td><td><b>公式の一次情報を、出典として必須にする</b></td><td>言語仕様・公式ガイド・規格・確立した文献の原典を、<b>原文の文字列で照合できる形</b>で持つ。出典の無い制約は書けない</td><td><span class="cost">出典が無いが正しい制約（経験則）を書けない。<b>書きたければ、まず一次情報を探すことになる</b></span></td></tr><tr><td><span class="n ">B</span></td><td><b>出典を推奨にとどめ、無い制約も書ける</b></td><td>出典の欄は持つが、空でも成立する</td><td><span class="cost"><b>空欄が積もる。</b>そして空欄の制約は、誰の経験則なのか分からないまま従われる</span></td></tr><tr><td><span class="n ">C</span></td><td><b>出典の種別だけを区別する（公式／文献／経験則）</b></td><td>経験則も書けるが、種別が付くので読み手が重みを判断できる</td><td><span class="cost"><b>プロジェクト固有の決めごとが「経験則」として入る道が開く</b>。種別が付いていても、集められた時点で従う対象になる</span></td></tr></table></div><h2><span class="sn">2</span>落とした案と、その理由</h2><div class="scroll"><table class="out"><tr><th></th><th>案</th><th>落とした理由</th></tr><tr><td><span class="n out">×</span></td><td><mark class="chg del" tabindex="0" role="button" aria-expanded="false" data-b="この案は残っていた" data-w="軸に「プロジェクト」を足すことになる。そのSkillは、どのプロジェクトでも同じ答えを返すという前提を自分で壊す"><b>プロジェクト固有の制約を、別の軸で持つ</b></mark></td><td>軸に「プロジェクト」を足すことになる。そのSkillは、どのプロジェクトでも同じ答えを返すという前提を自分で壊す</td></tr></table></div><h2><span class="sn">3</span>反証で分かったこと</h2><ul class='found'><li><b>出典の必須化は、プロジェクト特性の排除と同じ1つの仕組みである。</b>排除の規則を別に置く必要が無い</li><li><b>出典は「原文の文字列で照合できる」ことまで要る。</b>URL だけでは、要約を経由した引用を止められない</li><li><b>これは source-fidelity の規律そのものである</b> ── 要約を経由して原典を読まない／識別子を言い換えない</li></ul><h2><span class="sn">4</span>私の推し</h2><div class="concl"><span class="n big">A</span><div><p>公式の一次情報を、出典として必須にする。原文を落とし、原文の文字列で照合する</p></div></div><h3>なぜそう言えるか</h3><div class="scroll"><table class="why"><tr><th>結論のどこを支えるか</th><th>もとにしたこと</th><th>その出どころ</th></tr><tr><td><span class="part">出典を必須にすること</span></td><td>出典を書けない制約は、他のプロジェクトへ持って行けない</td><td><span class="kind k-given">前提</span><small>プロジェクトの特性を入れない、という今回の前提</small></td></tr><tr><td><span class="part">文字列で照合させること</span></td><td>AI が生成した仕様628本で、参照の <b>33%</b> が指す先に届いていない</td><td><span class="kind k-fact">実測</span><small>`spec-correspondence/02-dataset` の実測（29リポジトリ・アンカー1,205件）</small></td></tr><tr><td><span class="part">要約を経由させないこと</span></td><td>識別子を言い換えると、その鍵で引く実装は必ず空を返す</td><td><span class="kind k-src">原典</span><small>source-fidelity の規律（原文の文字列で1つずつ照合する）</small></td></tr></table></div><h3>図で見る</h3><figure><svg viewBox="0 0 780 270" role="img" aria-label="制約に出典を必須にすると、プロジェクト固有の決めごとは出典を持てないので入らない">
+<path d="M215 208 L215 150 L78 150 L78 70" fill="none" stroke="var(--add)" stroke-width="1.8" marker-end="url(#e2)"/>
+<text x="90" y="142" font-size="11" font-weight="700" fill="var(--add)">足りないと分かったら、ここへ回す</text>
+<path d="M605 70 L605 150 L289 150 L289 202" fill="none" stroke="var(--key)" stroke-width="1.8" marker-end="url(#e1)"/>
+<text x="330" y="168" font-size="11" fill="var(--key)">承認された制約が入り、集め直す</text>
+
+<line x1="8" y1="258" x2="772" y2="258" stroke="var(--rule)"/>
+<text x="8" y="278" font-size="11.5" fill="var(--muted)">足りないまま書き進めず、<tspan font-weight="700" fill="var(--add)">その場で勝手にも作らない</tspan>。作る手順へ回し、承認を経てから戻る。</text>
+<text x="8" y="296" font-size="11.5" fill="var(--muted)">回した結果は正本に残るので、<tspan font-weight="700" fill="var(--key)">次に同じ場面が来たときは、集める段で足りる</tspan>。</text>
+</svg><figcaption>上が制約を作る手順、下が制約に従って書く手順で、足りないときは上へ回って戻る。</figcaption></figure><h3>引き受けること</h3><ul class="found"><li>入口の取り違えを防ぐため、SKILL.md の冒頭でどちらに居るかを先に決めさせる</li></ul><h2><span class="sn">4</span>あなたの見解</h2><div class="you">✏　記号を選ぶ（どれでもなければ、そう言う）</div><h2><span class="sn">5</span>決まり</h2><div class="next">選ばれた案が合意になり、次の論点へ</div></section><section id="p8" role="tabpanel" hidden><p class="eyebrow">論点 8</p><h1>制約は、何を根拠に書けるか</h1><div class="note"><b>プロジェクトの特性を入れた時点で、抽象概念から外れて具体が混ざりはじめる。</b>排除の規則を別に置くのではなく、<b>出典の必須化で自動的に入らない形</b>にできる。</div><h2><span class="sn">1</span>反証を通過した案</h2><div class="scroll"><table class="opts"><tr><th></th><th>案</th><th>中身</th><th>代償</th></tr><tr><td><span class="n ">A</span></td><td><b>公式の一次情報を、出典として必須にする</b></td><td>言語仕様・公式ガイド・規格・確立した文献の原典を、<b>原文の文字列で照合できる形</b>で持つ。出典の無い制約は書けない</td><td><span class="cost">出典が無いが正しい制約（経験則）を書けない。<b>書きたければ、まず一次情報を探すことになる</b></span></td></tr><tr><td><span class="n ">B</span></td><td><b>出典を推奨にとどめ、無い制約も書ける</b></td><td>出典の欄は持つが、空でも成立する</td><td><span class="cost"><b>空欄が積もる。</b>そして空欄の制約は、誰の経験則なのか分からないまま従われる</span></td></tr><tr><td><span class="n ">C</span></td><td><b>出典の種別だけを区別する（公式／文献／経験則）</b></td><td>経験則も書けるが、種別が付くので読み手が重みを判断できる</td><td><span class="cost"><b>プロジェクト固有の決めごとが「経験則」として入る道が開く</b>。種別が付いていても、集められた時点で従う対象になる</span></td></tr></table></div><h2><span class="sn">2</span>落とした案と、その理由</h2><div class="scroll"><table class="out"><tr><th></th><th>案</th><th>落とした理由</th></tr><tr><td><span class="n out">×</span></td><td><mark class="chg del" tabindex="0" role="button" aria-expanded="false" data-b="この案は残っていた" data-w="軸に「プロジェクト」を足すことになる。そのSkillは、どのプロジェクトでも同じ答えを返すという前提を自分で壊す"><b>プロジェクト固有の制約を、別の軸で持つ</b></mark></td><td>軸に「プロジェクト」を足すことになる。そのSkillは、どのプロジェクトでも同じ答えを返すという前提を自分で壊す</td></tr></table></div><h2><span class="sn">3</span>反証で分かったこと</h2><ul class='found'><li><b>出典の必須化は、プロジェクト特性の排除と同じ1つの仕組みである。</b>排除の規則を別に置く必要が無い</li><li><b>出典は「原文の文字列で照合できる」ことまで要る。</b>URL だけでは、要約を経由した引用を止められない</li><li><b>これは source-fidelity の規律そのものである</b> ── 要約を経由して原典を読まない／識別子を言い換えない</li></ul><h2><span class="sn">4</span>私の推し</h2><div class="concl"><span class="n big">A</span><div><p>公式の一次情報を、出典として必須にする。原文を落とし、原文の文字列で照合する</p></div></div><h3>なぜそう言えるか</h3><div class="scroll"><table class="why"><tr><th>結論のどこを支えるか</th><th>もとにしたこと</th><th>その出どころ</th></tr><tr><td><span class="part">出典を必須にすること</span></td><td>出典を書けない制約は、他のプロジェクトへ持って行けない</td><td><span class="kind k-given">前提</span><small>プロジェクトの特性を入れない、という今回の前提</small></td></tr><tr><td><span class="part">文字列で照合させること</span></td><td>AI が生成した仕様628本で、参照の <b>33%</b> が指す先に届いていない</td><td><span class="kind k-fact">実測</span><small>`spec-correspondence/02-dataset` の実測（29リポジトリ・アンカー1,205件）</small></td></tr><tr><td><span class="part">要約を経由させないこと</span></td><td>識別子を言い換えると、その鍵で引く実装は必ず空を返す</td><td><span class="kind k-src">原典</span><small>source-fidelity の規律（原文の文字列で1つずつ照合する）</small></td></tr></table></div><h3>図で見る</h3><figure><svg viewBox="0 0 780 270" role="img" aria-label="制約に出典を必須にすると、プロジェクト固有の決めごとは出典を持てないので入らない">
 <defs><marker id="s1" viewBox="0 0 10 10" refX="9" refY="5" markerWidth="7" markerHeight="7" orient="auto-start-reverse"><path d="M0 0 L10 5 L0 10 z" fill="var(--key)"/></marker>
 <marker id="s2" viewBox="0 0 10 10" refX="9" refY="5" markerWidth="7" markerHeight="7" orient="auto-start-reverse"><path d="M0 0 L10 5 L0 10 z" fill="var(--add)"/></marker></defs>
 <text x="8" y="18" font-size="11.5" font-weight="700" fill="var(--muted)">書こうとしている制約</text>
